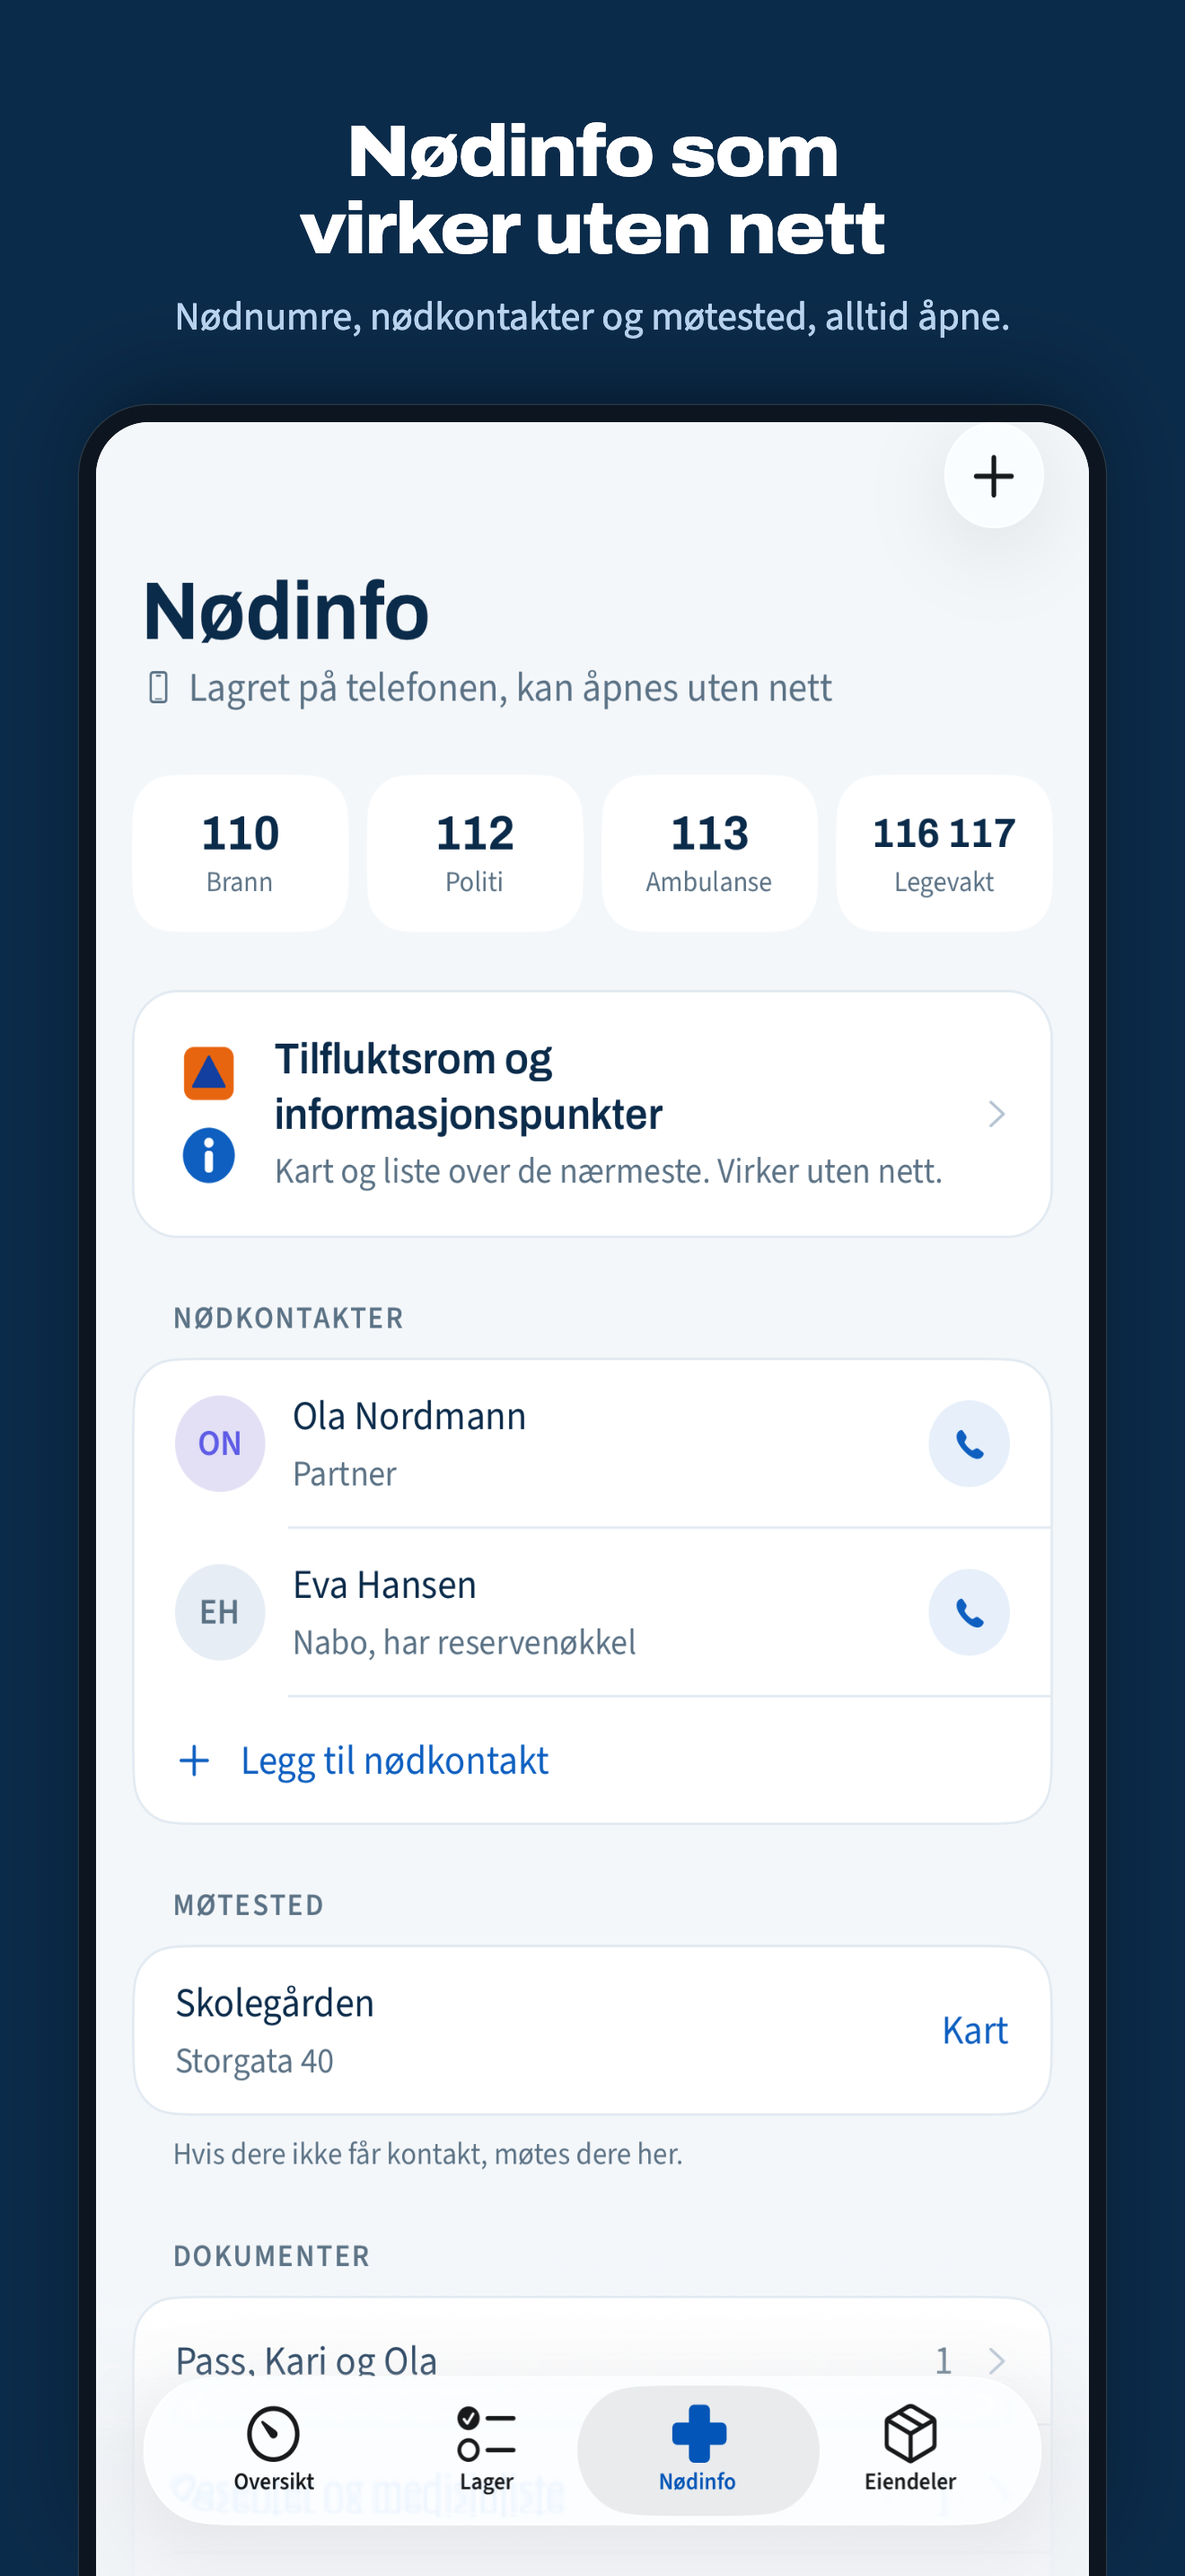
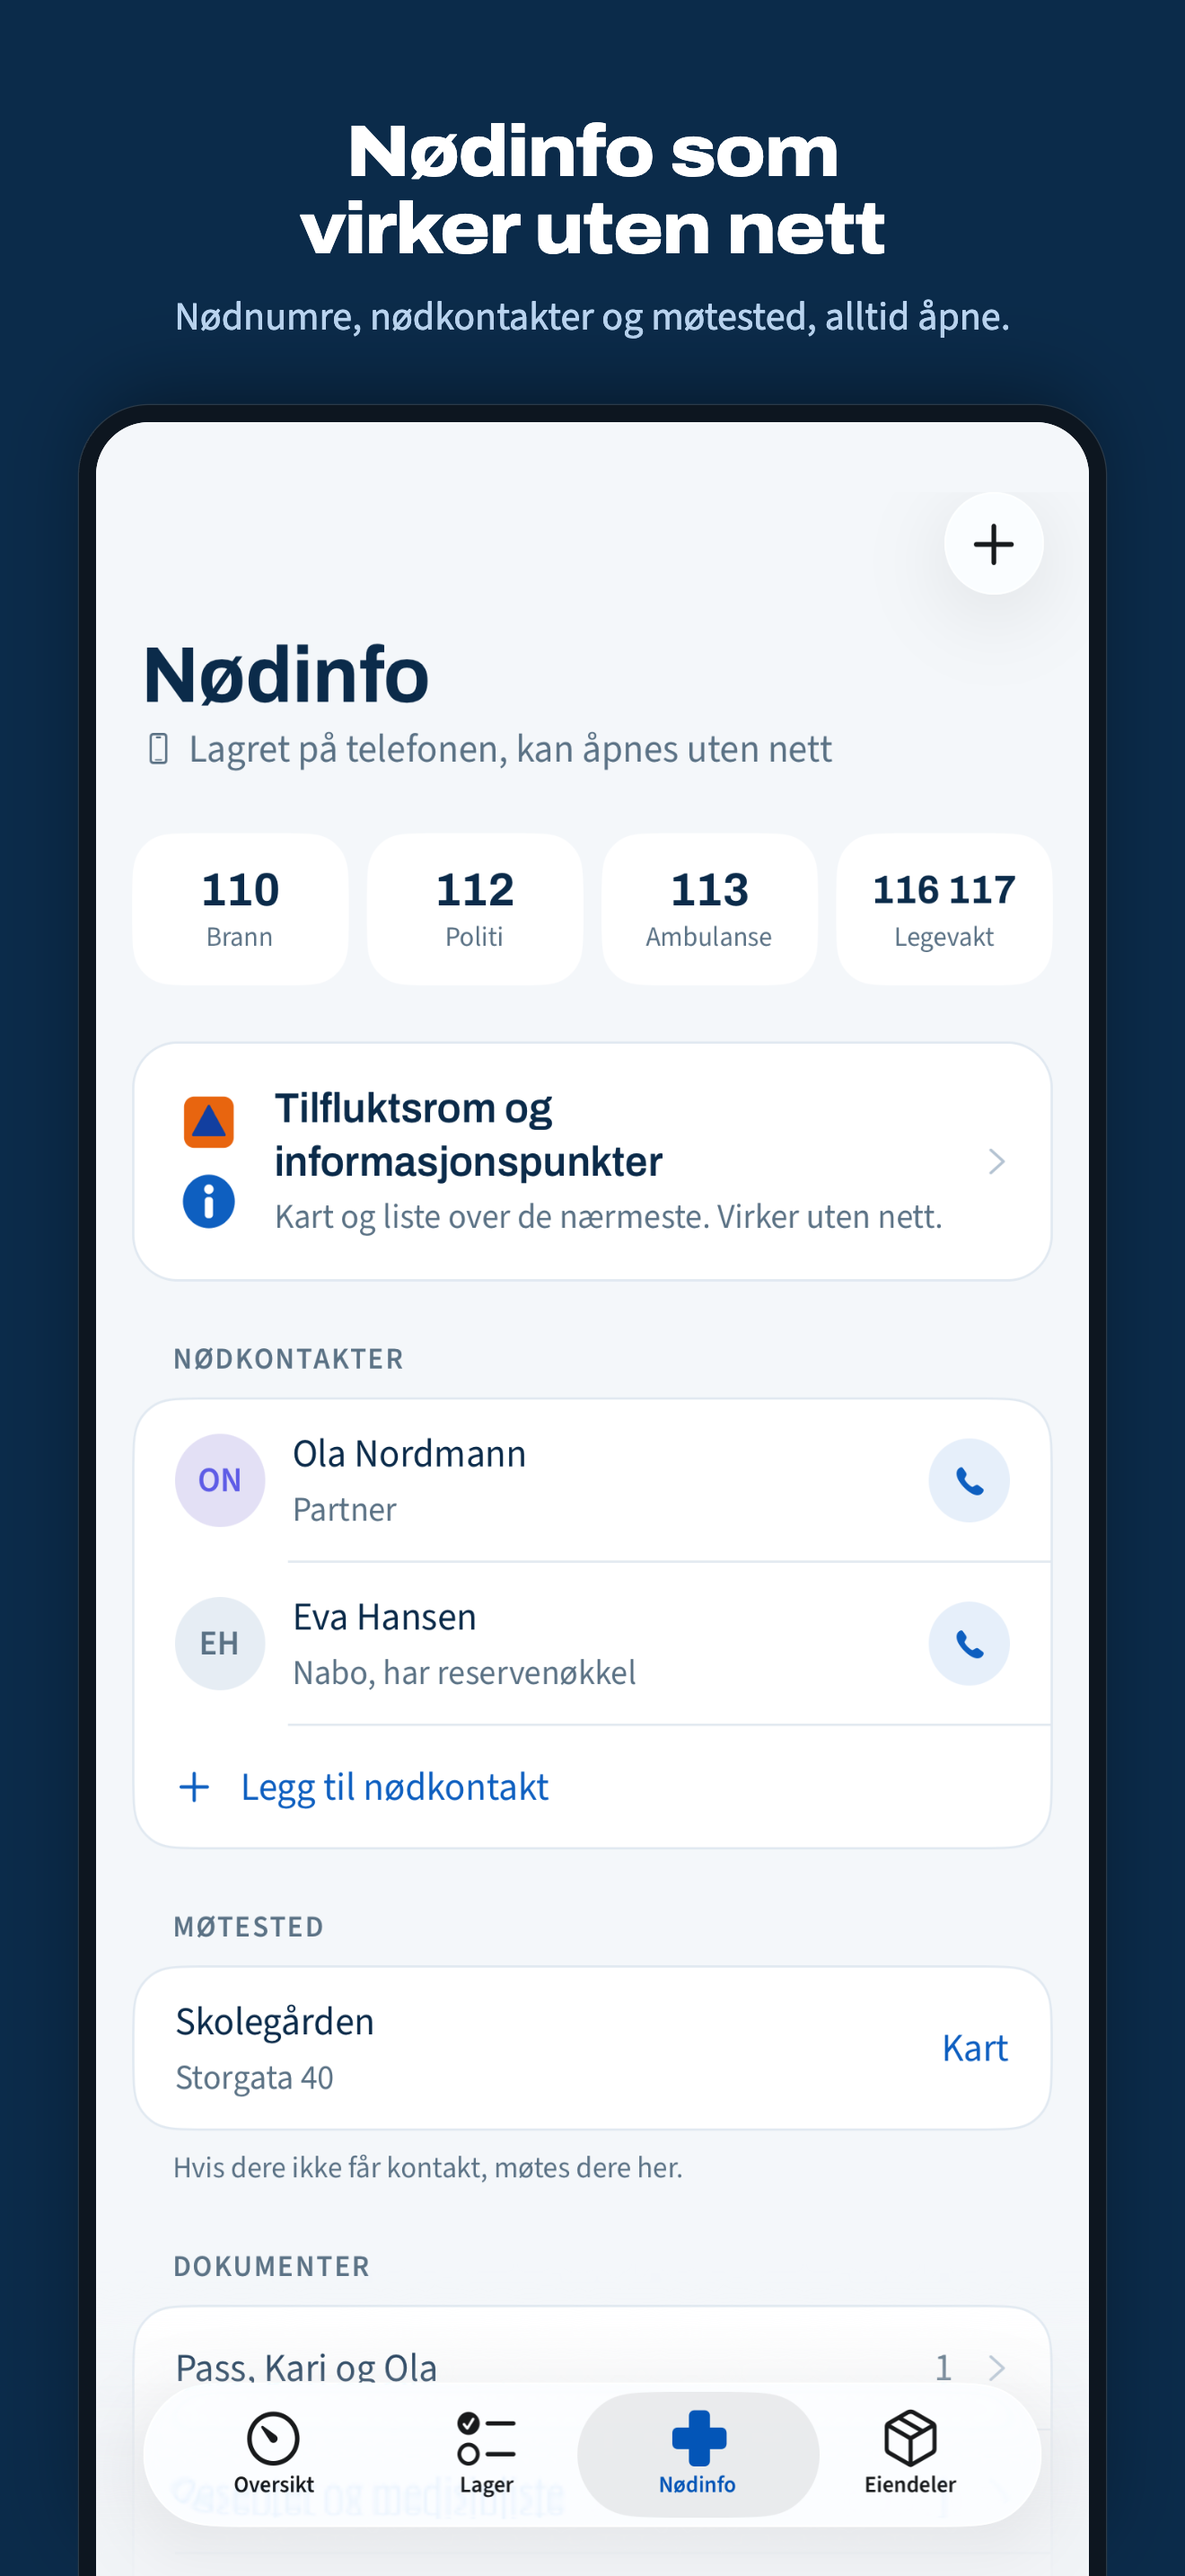
iPhone screenshots: air above the screen, Lager without the Expo dev button

diff --git a/docs/store/app-store-connect.md b/docs/store/app-store-connect.md
@@ -71,7 +71,7 @@ From `privacy-answers.md`, «Apple: App Privacy», 1.0 set, unchanged by 1.7:
 
 | Field | Value |
 | --- | --- |
-| Screenshots, iPhone 6.9″ | `skjermbilder/ios/1-oversikt.png` … `6-guide.png` (1320×2868), composed by `render-screenshots.mjs --ios` from simulator captures in `skjermbilder/ios/kilde/` (demo household). Apple scales them down for the smaller iPhones. No iPad set: `supportsTablet` is false |
+| Screenshots, iPhone 6.9″ | `skjermbilder/ios/1-oversikt.png` … `6-guide.png` (1320×2868), composed by `render-screenshots.mjs --ios` from simulator captures in `skjermbilder/ios/kilde/` (demo household). Re-rendered 2026-10-29 with more space above the screen and a new Lager capture (the first still had Expo's dev tools button). Apple scales them down for the smaller iPhones. No iPad set: `supportsTablet` is false |
 | Promotional text | `listing.md`, «Promotional text» |
 | Description | `listing.md`, «Full description» (the iPhone wording: «låst med Face ID eller kode» and the line about the locked phone) |
 | Keywords | `listing.md`, «Keywords» |
